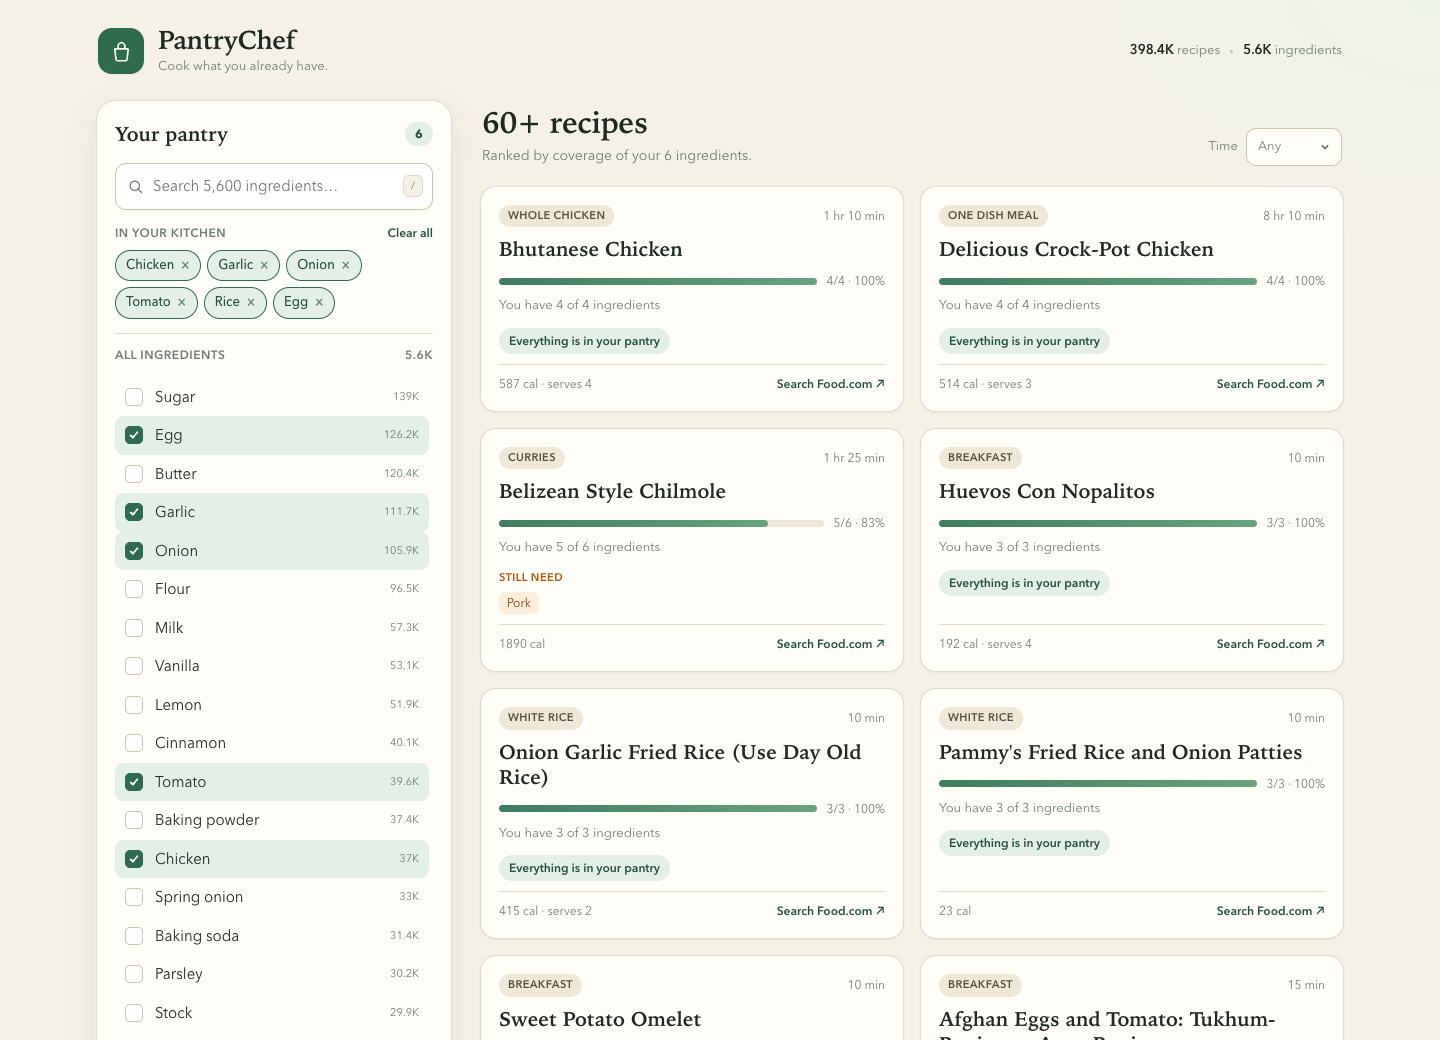
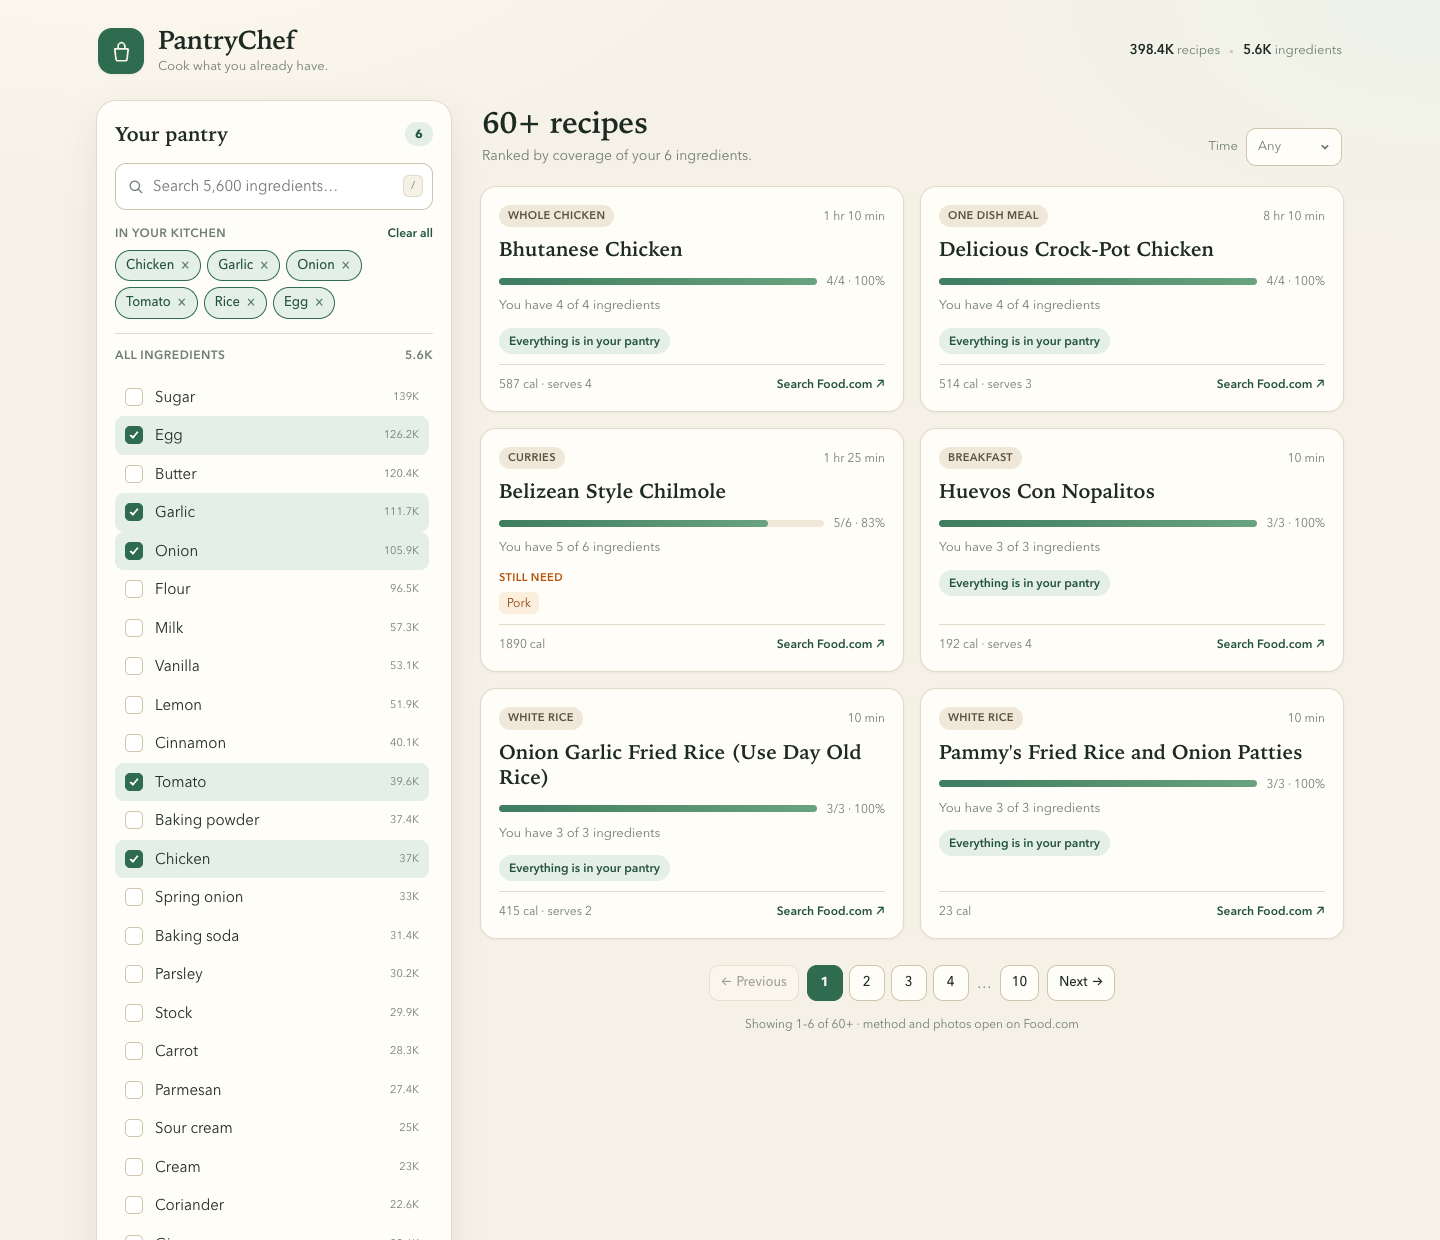
feat(web): paginate recipe results at 6 per page
The 60-result match payload rendered as one long grid, which was
overwhelming on desktop and endless on mobile. Results are now sliced
into pages of six with a windowed page control, a shown-range footer,
and a reset to page 1 whenever the pantry or time filter changes.

Page changes scroll back to the top of the results, and the pager
collapses to arrow-only controls on narrow screens.

diff --git a/web/src/App.tsx b/web/src/App.tsx
@@ -1,12 +1,14 @@
-import { useCallback, useEffect, useMemo, useState } from "react";
+import { useCallback, useEffect, useMemo, useRef, useState } from "react";
 import { keepPreviousData, useQuery } from "@tanstack/react-query";
 import { fetchIngredients, fetchMatch, fetchMeta } from "./api";
 import { formatCompact } from "./format";
 import { IngredientPicker } from "./components/IngredientPicker";
+import { Pagination } from "./components/Pagination";
 import { RecipeCard } from "./components/RecipeCard";
 import { RecipeDetail } from "./components/RecipeDetail";
 
 const STORAGE_KEY = "pantrychef.pantry.v1";
+const PAGE_SIZE = 6;
 
 function loadPantry(): number[] {
   const fromUrl = new URLSearchParams(window.location.search).get("pantry");
@@ -32,6 +34,9 @@ function loadPantry(): number[] {
 export default function App() {
   const [selected, setSelected] = useState<number[]>(loadPantry);
   const [maxMinutes, setMaxMinutes] = useState<number | null>(null);
+  const [page, setPage] = useState(1);
+  const resultsRef = useRef<HTMLElement>(null);
+  const lastPage = useRef(page);
   const [detailId, setDetailId] = useState<number | null>(() => {
     const raw = new URLSearchParams(window.location.search).get("recipe");
     if (!raw) return null;
@@ -99,6 +104,26 @@ export default function App() {
   const closeDetail = useCallback(() => setDetailId(null), []);
 
   const results = matchQuery.data?.results ?? [];
+  const totalPages = Math.max(1, Math.ceil(results.length / PAGE_SIZE));
+  const safePage = Math.min(page, totalPages);
+  const start = (safePage - 1) * PAGE_SIZE;
+  const pageResults = results.slice(start, start + PAGE_SIZE);
+
+  // A new pantry or time filter starts a fresh result set.
+  useEffect(() => {
+    setPage(1);
+  }, [selected, maxMinutes]);
+
+  useEffect(() => {
+    if (page > totalPages) setPage(totalPages);
+  }, [page, totalPages]);
+
+  useEffect(() => {
+    if (lastPage.current === page) return;
+    lastPage.current = page;
+    resultsRef.current?.scrollIntoView({ behavior: "smooth", block: "start" });
+  }, [page]);
+
   const selectedIngredients = useMemo(() => {
     if (!catalog) return [];
     const byId = new Map(catalog.map((item) => [item.id, item]));
@@ -185,7 +210,7 @@ export default function App() {
           )}
         </aside>
 
-        <section className="results-panel">
+        <section className="results-panel" ref={resultsRef}>
           <div className="results-head">
             <div>
               <h2>
@@ -276,7 +301,7 @@ export default function App() {
           {selected.length > 0 && results.length > 0 && (
             <>
               <div className="card-grid">
-                {results.map((recipe) => (
+                {pageResults.map((recipe) => (
                   <RecipeCard
                     key={recipe.id}
                     recipe={recipe}
@@ -284,9 +309,18 @@ export default function App() {
                   />
                 ))}
               </div>
+
+              <Pagination
+                page={safePage}
+                totalPages={totalPages}
+                onChange={setPage}
+              />
+
               <p className="results-foot">
-                Top {results.length} of millions of combinations. Method and
-                photos open on Food.com.
+                Showing {start + 1}–
+                {Math.min(start + PAGE_SIZE, results.length)} of {results.length}
+                {results.length === 60 ? "+" : ""} · method and photos open on
+                Food.com
               </p>
             </>
           )}

diff --git a/web/src/components/Pagination.tsx b/web/src/components/Pagination.tsx
@@ -1,0 +1,86 @@
+interface Props {
+  page: number;
+  totalPages: number;
+  onChange: (page: number) => void;
+}
+
+type PageItem = number | "gap";
+
+function pageItems(current: number, total: number): PageItem[] {
+  if (total <= 7) {
+    return Array.from({ length: total }, (_, index) => index + 1);
+  }
+
+  const pages = new Set<number>([1, total, current - 1, current, current + 1]);
+  if (current <= 3) {
+    pages.add(2).add(3).add(4);
+  }
+  if (current >= total - 2) {
+    pages.add(total - 1).add(total - 2).add(total - 3);
+  }
+
+  const ordered = [...pages]
+    .filter((page) => page >= 1 && page <= total)
+    .sort((a, b) => a - b);
+
+  const items: PageItem[] = [];
+  let previous = 0;
+  for (const page of ordered) {
+    if (page - previous > 1) items.push("gap");
+    items.push(page);
+    previous = page;
+  }
+  return items;
+}
+
+export function Pagination({ page, totalPages, onChange }: Props) {
+  if (totalPages <= 1) return null;
+
+  return (
+    <nav className="pagination" aria-label="Recipe pages">
+      <button
+        type="button"
+        className="page-arrow"
+        onClick={() => onChange(page - 1)}
+        disabled={page === 1}
+        aria-label="Previous page"
+      >
+        <span aria-hidden="true">←</span>
+        <span className="page-arrow-label">Previous</span>
+      </button>
+
+      <ol className="page-list">
+        {pageItems(page, totalPages).map((item, index) =>
+          item === "gap" ? (
+            <li key={`gap-${index}`} className="page-gap" aria-hidden="true">
+              …
+            </li>
+          ) : (
+            <li key={item}>
+              <button
+                type="button"
+                className={item === page ? "page-button active" : "page-button"}
+                aria-current={item === page ? "page" : undefined}
+                aria-label={`Page ${item}`}
+                onClick={() => onChange(item)}
+              >
+                {item}
+              </button>
+            </li>
+          ),
+        )}
+      </ol>
+
+      <button
+        type="button"
+        className="page-arrow"
+        onClick={() => onChange(page + 1)}
+        disabled={page === totalPages}
+        aria-label="Next page"
+      >
+        <span className="page-arrow-label">Next</span>
+        <span aria-hidden="true">→</span>
+      </button>
+    </nav>
+  );
+}

diff --git a/web/src/styles.css b/web/src/styles.css
@@ -449,6 +449,7 @@ a {
 
 .results-panel {
   min-width: 0;
+  scroll-margin-top: 16px;
 }
 
 .results-head {
@@ -674,9 +675,73 @@ a {
 }
 
 .results-foot {
-  margin: 22px 2px 0;
+  margin: 14px 2px 0;
   color: var(--muted);
   font-size: 12px;
+  text-align: center;
+}
+
+/* ---------- pagination ---------- */
+
+.pagination {
+  display: flex;
+  align-items: center;
+  justify-content: center;
+  flex-wrap: wrap;
+  gap: 8px;
+  margin-top: 26px;
+}
+
+.page-list {
+  display: flex;
+  align-items: center;
+  gap: 6px;
+  margin: 0;
+  padding: 0;
+  list-style: none;
+}
+
+.page-button,
+.page-arrow {
+  display: inline-flex;
+  align-items: center;
+  justify-content: center;
+  gap: 4px;
+  min-width: 36px;
+  height: 36px;
+  padding: 0 11px;
+  border: 1px solid var(--line-strong);
+  border-radius: 10px;
+  background: var(--panel);
+  color: var(--ink);
+  font-size: 13px;
+  font-weight: 500;
+  transition: background 0.15s, border-color 0.15s, color 0.15s;
+}
+
+.page-button:hover,
+.page-arrow:hover:not(:disabled) {
+  border-color: var(--green);
+  background: var(--green-soft);
+}
+
+.page-button.active {
+  border-color: var(--green);
+  background: var(--green);
+  color: #fdf9ee;
+  font-weight: 700;
+}
+
+.page-arrow:disabled {
+  opacity: 0.4;
+  cursor: not-allowed;
+}
+
+.page-gap {
+  display: flex;
+  align-items: center;
+  padding: 0 2px;
+  color: var(--muted);
 }
 
 /* ---------- empty + error ---------- */
@@ -1075,6 +1140,26 @@ a {
 
   .card-grid {
     grid-template-columns: minmax(0, 1fr);
+  }
+
+  .pagination {
+    gap: 6px;
+    margin-top: 22px;
+  }
+
+  .page-button,
+  .page-arrow {
+    min-width: 34px;
+    height: 34px;
+    padding: 0 9px;
+  }
+
+  .page-arrow-label {
+    display: none;
+  }
+
+  .results-foot {
+    font-size: 11px;
   }
 
   .sheet {
